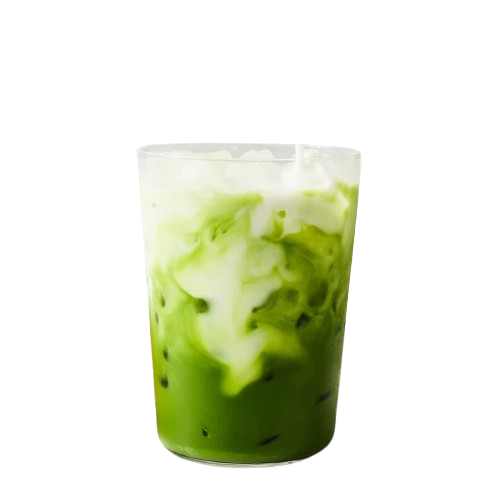
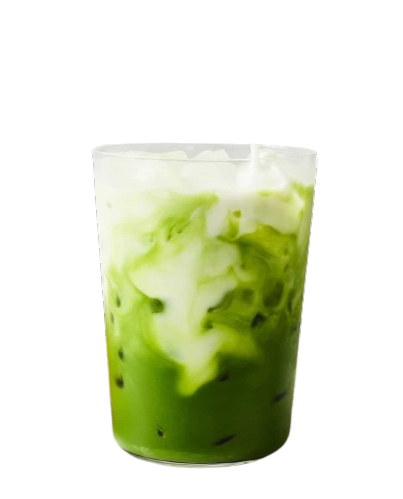
docs(bev&gadget):add shop description and product img

diff --git a/Homepage.html b/Homepage.html
@@ -85,19 +85,20 @@
     <div class="box">
       <h4>Story</h4>
       <p>
-        wodsjkfmfkdmfdkiojdfmddfdsfdsvdsvmdkjlvnmvndfkd;sjfdkfmd;fmdpmfdk;vmfsdfdsfdgfdbvbvcbfgfddfd...
+        Cafe Fair is a cozy little corner filled with the aroma of matcha and warm smiles. Here, you can enjoy sweet homemade treats, sip your favorite drink, stroll through booths of stationery, 
+        handmade crafts, and cute mini items, and capture memories in heartwarming photo spots. Spending a lovely afternoon in a Cafe full of smiles.
       </p>
     </div>
     <div class="box">
       <h4>Desserts &amp; Beverages</h4>
       <p>
-        wodsjkfmfkdmfdkiojdfmddfdsfdsvdsvmdkjlvnmvndfkd;sjfdkfmd;fmdpmfdk;vmfsdfdsfdgfdbvbvcbfgfddfd...
+        Enjoy the perfect blend of sweetness and bitterness at the beverage booth, featuring special drinks available only at exclusive events which a are favorites among many visitors. Pair your drink with delicious, palate-balancing homemade desserts made with genuine care.
       </p>
     </div>
     <div class="box">
       <h4>Photobooth &amp; Gadgets</h4>
       <p>
-        wodsjkfmfkdmfdkiojdfmddfdsfdsvdsvmdkjlvnmvndfkd;sjfdkfmd;fmdpmfdk;vmfsdfdsfdgfdbvbvcbfgfddfd...
+        A collection of cozy little corners that invite you to relax  stroll through carefully curated cute items, sip a fragrant drink, and snap photos with friends to capture sweet memories in the warm, Cafe Fair atmosphere.
       </p>
     </div>
   </section>
@@ -112,9 +113,9 @@
             <div class="row justify-content-center">
                 <div class="col-8 col-md-6 col-lg-3 cate-area">
                     <div class="cate g-4" id="cate-1">
-                        <img src="MediaFiles/h-01.png" alt="product" class="cate-img">
+                        <img src="MediaFiles/4catebooth1.png" alt="product" class="cate-img">
                         <h4>Beverages</h4>
-                        <p>Lorem ipsum dolor sit amet consectetur, adipisicing elit. adipisicing elit</p>
+                        <p>A beverage shop highly skilled in crafting matcha drinks and popular among the younger generation.</p>
                         <div class="btn-area">
                             <a href="Booth Directory Page.html#bd-1" class="cate-btn" id="cate-btn-1"> 
                                 <h2> > </h2> 

diff --git a/Booth Directory Page.html b/Booth Directory Page.html
@@ -33,11 +33,11 @@
     <div class="row bd" id="bd-1">
         <div class="col-10 col-md-6 col-lg-6 order-2 order-md-1 order-lg-1 sub-bd" >
             <h2> BEVERAGES </h2>
-            <p>Lorem ipsum, dolor sit amet consectetur adipisicing elit. Doloribus, officiis repellendus culpa ipsum, laudantium quidem ea iusto atque esse et quo consequatur temporibus labore tempora id reprehenderit corporis velit sapiente.</p>
+            <p>A drink shop specializing in matcha, using premium matcha sourced from Japan. With its charming décor and special drinks available only at exclusive events, this place is sure to become your number one matcha spot forever.</p>
             <a href="Booth1 Page.html">Click Here</a>
         </div>
         <div class="col-10 col-md-6 col-lg-6 order-1 order-md-2 order-lg-2 bd-img ">
-            <img src="MediaFiles/h-01.png">
+            <img src="MediaFiles/bd-cafe-bev.jpg">
         </div>
     </div>
 
